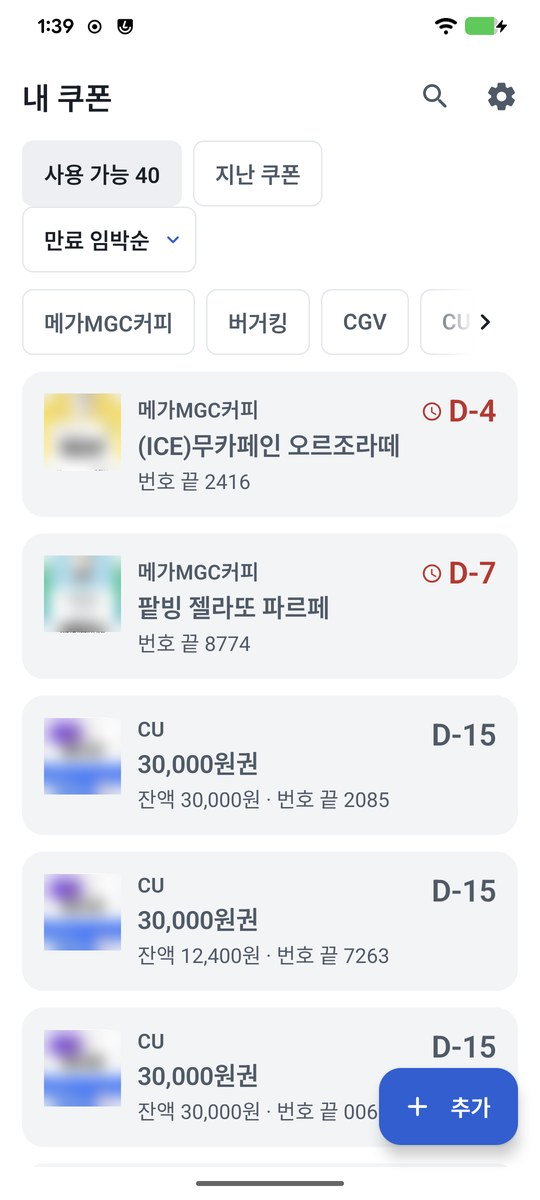
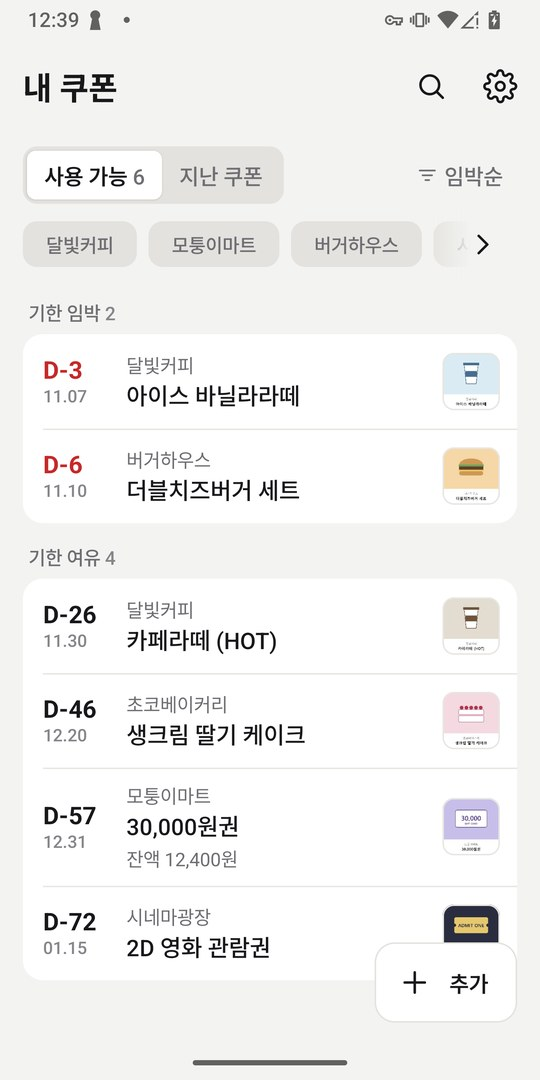
docs(readme): new screenshots of the redesign with made-up coupons (list, barcode, voucher balance, widget)

diff --git a/README.md b/README.md
@@ -25,11 +25,12 @@
 3. **계산대에서**: 목록에서 쿠폰을 누르면 화면이 최대 밝기로 바뀌고 바코드와 번호가 크게 나와요. 다 쓰면 **사용 완료**를 눌러요.
 
 <div align="center">
-<img src="docs/images/screen-1.jpg" width="30%" alt="목록: 만료 임박순 쿠폰 카드, 브랜드 칩, D-4·D-7 빨간 표시, 금액권 잔액">
-<img src="docs/images/screen-2.jpg" width="30%" alt="사용 화면: 사용처와 상품명, D-day, 큰 바코드(가림 처리), 점원에게 보여 주기, 사용 완료 버튼">
-<img src="docs/images/screen-3.jpg" width="30%" alt="홈 화면 위젯: 곧 끝나는 쿠폰과 D-day, 금액권 잔액">
+<img src="docs/images/screen-1.jpg" width="23%" alt="목록: 기한 임박·기한 여유로 나뉜 쿠폰, 맨 앞의 D-day(D-3·D-6 빨간 표시), 금액권 잔액">
+<img src="docs/images/screen-2.jpg" width="23%" alt="사용 화면: 브랜드와 상품명, D-day, 큰 바코드와 번호, 점원에게 보여 주기, 사용 완료 버튼">
+<img src="docs/images/screen-4.jpg" width="23%" alt="금액권 화면: 잔액 12,400원 / 30,000원, 사용 기록, 바코드, 쓴 금액 입력 버튼">
+<img src="docs/images/screen-3.jpg" width="23%" alt="홈 화면 위젯: 쿠폰과 D-day 목록">
 </div>
-<div align="center"><sub>쿠폰 목록 · 바코드 화면 (바코드는 가림 처리) · 홈 화면 위젯</sub></div>
+<div align="center"><sub>쿠폰 목록 · 바코드 화면 · 금액권 잔액 · 홈 화면 위젯 (모두 가상의 쿠폰)</sub></div>
 
 ## ✨ 할 수 있는 것
 
